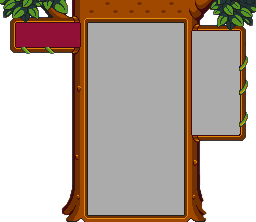
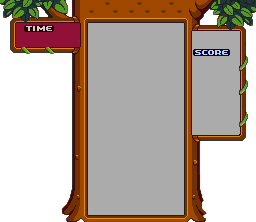
timer

Changed region(s): [[0.75, 0.2162, 0.9062, 0.2703], [0.0938, 0.1081, 0.2188, 0.1622]]

diff --git a/lib/engine/typewriter.rb b/lib/engine/typewriter.rb
@@ -1,0 +1,35 @@
+
+class Typewriter
+
+  LARGE_CHAR_WIDTH  = 8
+  LARGE_CHAR_HEIGHT = 13
+
+  def initialize(screen_area)
+    @screen_area = screen_area
+    numbers_png = ResourceLoader.load('numbers')
+    @format = numbers_png.format
+    @numbers = []
+    (0..10).each do |number|
+      @numbers[number] = Character.new(numbers_png.copy_rect(number * LARGE_CHAR_WIDTH, 0, 8, 13))
+    end
+  end
+
+  def time_separator
+    return @numbers[10]
+  end
+
+  def get_time(ticks)
+    time_surface = @screen_area.display_format_alpha
+    minutes = "%02d" % (ticks.to_i / 60)
+    seconds = "%02d" % (ticks - ((ticks.to_i / 60) * 60))
+    Surface.blit(@numbers[minutes[0].to_i].blue, 0, 0, 0, 0, time_surface, LARGE_CHAR_WIDTH * 0, 0)
+    Surface.blit(@numbers[minutes[1].to_i].blue, 0, 0, 0, 0, time_surface, LARGE_CHAR_WIDTH * 1, 0)
+    Surface.blit(time_separator.blue           , 0, 0, 0, 0, time_surface, LARGE_CHAR_WIDTH * 2, 0)
+    Surface.blit(@numbers[seconds[0].to_i].blue, 0, 0, 0, 0, time_surface, LARGE_CHAR_WIDTH * 3, 0)
+    Surface.blit(@numbers[seconds[1].to_i].blue, 0, 0, 0, 0, time_surface, LARGE_CHAR_WIDTH * 4, 0)
+    return time_surface
+  end
+  
+
+end
+

diff --git a/lib/engine/renderer.rb b/lib/engine/renderer.rb
@@ -13,7 +13,7 @@ class Renderer
     @bonus4  = ResourceLoader.load('bonus4')
     @bonus5  = ResourceLoader.load('bonus5')
     @bonusx2 = ResourceLoader.load('bonusx2')
-    @start_op = 0
+    @start_op = 0   
   end
 
   def startup
@@ -115,6 +115,7 @@ class Renderer
   end
 
   def render(playfield)
+    @typewriter ||= Typewriter.new(@screen.copy_rect(33, 33, 40, 13))
     Surface.blit(area, 0, 0, 0, 0, @screen, @start_x, @start_y)
     (0..5).each do |x|
       (0..11).each do |y|
@@ -137,6 +138,8 @@ class Renderer
       end
     end
     Surface.blit(playfield.cursor.sprite, 0 ,0, 0, 0, @screen, @start_x + (16 * playfield.cursor.pos_x) - 2, @end_y - (16 * playfield.cursor.pos_y) - 2 - playfield.ticks)
+    Surface.blit(@typewriter.get_time(playfield.time_elapsed), 0, 0, 0, 0, @screen, 33, 33)
+    @screen.update_rect(33, 33, 40, 13)
     @screen.update_rect(@start_x, @start_y, @end_x - @start_x, @end_y - @start_y)
   end
 

diff --git a/lib/engine/character.rb b/lib/engine/character.rb
@@ -1,0 +1,28 @@
+
+class Character
+
+  OUTER_COLOR = [255,0,0,255]
+  INNER_COLOR = [0,255,0,255]
+
+  def initialize(sprite)
+    @sprite = sprite
+  end
+
+  def apply_color(outer, inner)
+    target_sprite = @sprite.display_format_alpha
+    (0...target_sprite.w).each do |x|
+      (0...target_sprite.h).each do |y|
+        pixel = target_sprite.get_rgba(target_sprite[x,y])
+        target_sprite[x,y] = outer if pixel == OUTER_COLOR
+        target_sprite[x,y] = inner if pixel == INNER_COLOR
+      end
+    end
+    return target_sprite
+  end
+
+  def blue
+    @blue = apply_color([0, 32, 104, 255], [112, 248, 248, 255]) unless @blue
+    return @blue
+  end
+
+end

diff --git a/lib/timetest.rb b/lib/timetest.rb
@@ -1,0 +1,26 @@
+
+require 'rubygems'
+require 'require_all'
+
+require_all File.join(File.dirname(__FILE__), "domain")
+require_all File.join(File.dirname(__FILE__), "engine")
+
+require 'sdl'
+include SDL
+
+SDL.init(SDL::INIT_EVERYTHING)
+screen = Screen.open(256, 222, 0, HWSURFACE | DOUBLEBUF)
+
+typewriter = Typewriter.new
+
+starting_time = Time.now
+
+while(true)
+  timespan = Time.now - starting_time
+  time_surface = typewriter.get_time(timespan)
+  screen.fill_rect(0, 0, screen.w, screen.h, [41,25,23])
+  Surface.blit(time_surface, 0, 0, 0, 0, screen, 0, 0)
+  screen.flip
+  sleep(0.1)
+end
+

diff --git a/lib/domain/playfield.rb b/lib/domain/playfield.rb
@@ -6,6 +6,10 @@ class Playfield < Array
   attr_reader :cursor
 
   attr_accessor :scroll
+
+  def time_elapsed
+    return Time.now - @time
+  end
   
   def [](*args)
     if args.length == 2
@@ -39,6 +43,7 @@ class Playfield < Array
     @counter = 0
     @cursor = cursor
     @multiplier = 0
+    @time = Time.now
   end
 
   def get_non_matching_block(column, row)

diff --git a/lib/tetrisattack.rb b/lib/tetrisattack.rb
@@ -14,8 +14,6 @@ SDL.init(SDL::INIT_EVERYTHING)
 Mixer.open
 screen = Screen.open(256, 222, 0, HWSURFACE | DOUBLEBUF)
 
-theme = ResourceLoader.load_music('music')
-
 cursor = Cursor.new
 
 start_x = 88
